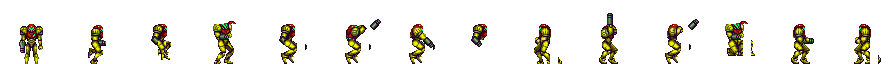
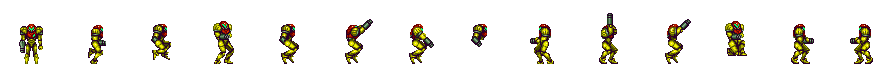
fully fix all samus rendering

diff --git a/shared/src/commonMain/kotlin/com/supermetroid/editor/rom/SamusSpriteDecoder.kt b/shared/src/commonMain/kotlin/com/supermetroid/editor/rom/SamusSpriteDecoder.kt
@@ -84,22 +84,45 @@ class SamusSpriteDecoder(private val romParser: RomParser) {
     val animationCount: Int get() = 253
 
     /**
+     * Sorted unique frame-progression pointers, used to determine animation
+     * boundaries (many animations share overlapping data with no terminators).
+     */
+    private val sortedFramePointers: IntArray by lazy {
+        val ptrs = mutableSetOf<Int>()
+        for (id in 0 until animationCount) {
+            val off = romParser.snesToPc(FRAME_PROG_PTRS + 2 * id)
+            ptrs.add(readU16(rom, off))
+        }
+        ptrs.sorted().toIntArray()
+    }
+
+    /**
      * Get the number of frames (poses) for an animation.
-     * Scans until end marker (0xFF in top_tiles_table byte) or next animation boundary.
+     * Uses the gap to the next animation's pointer to determine the boundary,
+     * since SM's frame tables share overlapping data with no terminators.
      */
     fun getFrameCount(animationId: Int): Int {
         if (animationId < 0 || animationId >= animationCount) return 0
         val fpPtrOff = romParser.snesToPc(FRAME_PROG_PTRS + 2 * animationId)
-        val fpBase = readU16(rom, fpPtrOff)
-        val tableAddr = romParser.snesToPc(0x920000 + fpBase)
+        val currentPtr = readU16(rom, fpPtrOff)
 
+        // Binary search for current pointer, use next pointer to compute frame count
+        val idx = sortedFramePointers.binarySearch(currentPtr)
+        if (idx >= 0 && idx + 1 < sortedFramePointers.size) {
+            val nextPtr = sortedFramePointers[idx + 1]
+            val frames = (nextPtr - currentPtr) / 4
+            if (frames in 1..64) return frames
+        }
+
+        // Fallback: scan for control bytes (>= 0xE0) or end-of-data
+        val tableAddr = romParser.snesToPc(0x920000 + currentPtr)
         var count = 0
-        while (count < 64) { // safety limit
+        while (count < 64) {
             val entry0 = rom[tableAddr + count * 4].toInt() and 0xFF
-            if (entry0 == 0xFF) break
+            if (entry0 >= 0xE0) break
             count++
         }
-        return count
+        return count.coerceAtLeast(1)
     }
 
     // ─── Pose extraction ─────────────────────────────────────────────
@@ -192,25 +215,25 @@ class SamusSpriteDecoder(private val romParser: RomParser) {
         val pixels = IntArray(width * height) // transparent black
 
         for (entry in pose.tilemaps) {
+            val bx = centerX + entry.xOffset
+            val by = centerY + entry.yOffset
             if (entry.is16x16) {
-                // 16x16 = 4 tiles: tileNum, tileNum+1, tileNum+16, tileNum+17
+                // 16x16 = 4 sub-tiles; swap positions when flipped
+                val lx = if (entry.xFlip) 8 else 0
+                val rx = if (entry.xFlip) 0 else 8
+                val ty = if (entry.yFlip) 8 else 0
+                val boty = if (entry.yFlip) 0 else 8
                 renderTile(pixels, width, height, pose.vram, entry.tileNum, palette,
-                    centerX + entry.xOffset, centerY + entry.yOffset,
-                    entry.xFlip, entry.yFlip, 0, 0)
+                    bx + lx, by + ty, entry.xFlip, entry.yFlip)
                 renderTile(pixels, width, height, pose.vram, entry.tileNum + 1, palette,
-                    centerX + entry.xOffset, centerY + entry.yOffset,
-                    entry.xFlip, entry.yFlip, 8, 0)
+                    bx + rx, by + ty, entry.xFlip, entry.yFlip)
                 renderTile(pixels, width, height, pose.vram, entry.tileNum + 16, palette,
-                    centerX + entry.xOffset, centerY + entry.yOffset,
-                    entry.xFlip, entry.yFlip, 0, 8)
+                    bx + lx, by + boty, entry.xFlip, entry.yFlip)
                 renderTile(pixels, width, height, pose.vram, entry.tileNum + 17, palette,
-                    centerX + entry.xOffset, centerY + entry.yOffset,
-                    entry.xFlip, entry.yFlip, 8, 8)
+                    bx + rx, by + boty, entry.xFlip, entry.yFlip)
             } else {
-                // 8x8 single tile
                 renderTile(pixels, width, height, pose.vram, entry.tileNum, palette,
-                    centerX + entry.xOffset, centerY + entry.yOffset,
-                    entry.xFlip, entry.yFlip, 0, 0)
+                    bx, by, entry.xFlip, entry.yFlip)
             }
         }
         return pixels
@@ -313,17 +336,17 @@ class SamusSpriteDecoder(private val romParser: RomParser) {
 
     /**
      * Render a single 8x8 tile from VRAM into the pixel buffer.
-     * @param subX, subY offset within the 16x16 tile (0 or 8 for each)
+     * Flip is applied within the 8x8 tile; for 16x16 sprites the caller
+     * swaps sub-tile positions.
      */
     private fun renderTile(
         pixels: IntArray, imgW: Int, imgH: Int,
         vram: ByteArray, tileNum: Int, palette: IntArray,
         baseX: Int, baseY: Int,
-        xFlip: Boolean, yFlip: Boolean,
-        subX: Int, subY: Int
+        xFlip: Boolean, yFlip: Boolean
     ) {
         val tileOffset = tileNum * 32
-        if (tileOffset + 32 > vram.size) return
+        if (tileOffset < 0 || tileOffset + 32 > vram.size) return
 
         for (py in 0 until 8) {
             val row = tileOffset + py * 2
@@ -343,17 +366,8 @@ class SamusSpriteDecoder(private val romParser: RomParser) {
 
                 if (colorIdx == 0) continue // transparent
 
-                // Apply flip
-                val fx = if (xFlip) {
-                    if (subX == 0) 8 + (7 - px) else (7 - px)
-                } else {
-                    subX + px
-                }
-                val fy = if (yFlip) {
-                    if (subY == 0) 8 + (7 - py) else (7 - py)
-                } else {
-                    subY + py
-                }
+                val fx = if (xFlip) 7 - px else px
+                val fy = if (yFlip) 7 - py else py
 
                 val sx = baseX + fx
                 val sy = baseY + fy

diff --git a/shared/src/jvmTest/kotlin/com/supermetroid/editor/rom/SamusRenderDiagnostic.kt b/shared/src/jvmTest/kotlin/com/supermetroid/editor/rom/SamusRenderDiagnostic.kt
@@ -29,10 +29,6 @@ class SamusRenderDiagnostic {
         val img = BufferedImage(size, size, BufferedImage.TYPE_INT_ARGB)
         img.setRGB(0, 0, size, size, pixels, 0, size)
         ImageIO.write(img, "png", File("/Users/kenny/code/super_metroid_dev/test-resources/samus_test_pose.png"))
-        println("Wrote samus_test_pose.png")
-
-        val nonTransparent = pixels.count { it != 0 }
-        println("Non-transparent pixels: $nonTransparent / ${size * size}")
     }
 
     @Test
@@ -60,6 +56,51 @@ class SamusRenderDiagnostic {
         }
 
         ImageIO.write(sheet, "png", File("/Users/kenny/code/super_metroid_dev/test-resources/samus_poses_sheet.png"))
-        println("Wrote samus_poses_sheet.png with ${groups.size} groups")
+    }
+
+    @Test
+    fun `render standing variants to verify flip correctness`() {
+        val rp = loadTestRom() ?: return
+        val decoder = SamusSpriteDecoder(rp)
+        val palette = decoder.readPalette()
+
+        // Render all 9 standing variants (anim 0-8) frame 0 as a strip
+        val tileSize = 64
+        val standAnims = listOf(0, 1, 2, 3, 4, 5, 6, 7, 8)
+        val sheetW = standAnims.size * tileSize
+        val sheet = BufferedImage(sheetW, tileSize, BufferedImage.TYPE_INT_ARGB)
+
+        for ((idx, animId) in standAnims.withIndex()) {
+            val pose = decoder.getPose(animId, 0) ?: continue
+            val pixels = decoder.renderPose(pose, palette, tileSize, tileSize)
+            sheet.setRGB(idx * tileSize, 0, tileSize, tileSize, pixels, 0, tileSize)
+        }
+
+        ImageIO.write(sheet, "png", File("/Users/kenny/code/super_metroid_dev/test-resources/samus_stand_variants.png"))
+    }
+
+    @Test
+    fun `render run animation frames`() {
+        val rp = loadTestRom() ?: return
+        val decoder = SamusSpriteDecoder(rp)
+        val palette = decoder.readPalette()
+
+        // Render all frames of run animation 9 (first run variant)
+        val animId = 9
+        val frameCount = decoder.getFrameCount(animId)
+        val tileSize = 48
+        val cols = frameCount.coerceAtMost(10)
+        val rows = (frameCount + cols - 1) / cols
+        val sheet = BufferedImage(cols * tileSize, rows * tileSize, BufferedImage.TYPE_INT_ARGB)
+
+        for (frame in 0 until frameCount) {
+            val pose = decoder.getPose(animId, frame) ?: continue
+            val pixels = decoder.renderPose(pose, palette, tileSize, tileSize)
+            val col = frame % cols
+            val row = frame / cols
+            sheet.setRGB(col * tileSize, row * tileSize, tileSize, tileSize, pixels, 0, tileSize)
+        }
+
+        ImageIO.write(sheet, "png", File("/Users/kenny/code/super_metroid_dev/test-resources/samus_run_frames.png"))
     }
 }

diff --git a/shared/src/jvmTest/kotlin/com/supermetroid/editor/rom/SamusFrameCountTest.kt b/shared/src/jvmTest/kotlin/com/supermetroid/editor/rom/SamusFrameCountTest.kt
@@ -1,0 +1,48 @@
+package com.supermetroid.editor.rom
+
+import org.junit.jupiter.api.Test
+import org.junit.jupiter.api.Assertions.assertTrue
+import java.io.File
+
+class SamusFrameCountTest {
+    private fun loadTestRom(): RomParser? {
+        val paths = listOf(
+            "/Users/kenny/code/super_metroid_dev/test-resources/Super Metroid (JU) [!].smc",
+            "test-resources/Super Metroid (JU) [!].smc"
+        )
+        for (p in paths) {
+            val f = File(p)
+            if (f.exists()) return RomParser.loadRom(f.absolutePath)
+        }
+        return null
+    }
+
+    @Test
+    fun `standing animation variants have bounded frame counts`() {
+        val rp = loadTestRom() ?: return
+        val decoder = SamusSpriteDecoder(rp)
+        // Stand group variants 1-8 should have small frame counts (bounded by next pointer)
+        for (animId in 1..8) {
+            val count = decoder.getFrameCount(animId)
+            assertTrue(count in 1..20, "Anim $animId: expected 1-20 frames, got $count")
+        }
+    }
+
+    @Test
+    fun `running animations have 10 frames each`() {
+        val rp = loadTestRom() ?: return
+        val decoder = SamusSpriteDecoder(rp)
+        for (animId in 9..17) {
+            val count = decoder.getFrameCount(animId)
+            assertTrue(count == 10, "Run anim $animId: expected 10 frames, got $count")
+        }
+    }
+
+    @Test
+    fun `spin jump has 3 frames`() {
+        val rp = loadTestRom() ?: return
+        val decoder = SamusSpriteDecoder(rp)
+        assertTrue(decoder.getFrameCount(0x25) == 3, "Spin jump L should have 3 frames")
+        assertTrue(decoder.getFrameCount(0x26) == 3, "Spin jump R should have 3 frames")
+    }
+}

diff --git a/desktopApp/src/jvmMain/kotlin/com/supermetroid/editor/ui/SamusSpriteViewer.kt b/desktopApp/src/jvmMain/kotlin/com/supermetroid/editor/ui/SamusSpriteViewer.kt
@@ -255,12 +255,15 @@ fun SamusSpriteViewer(
                         }
                     }
 
+                    // Height estimate: ~10 columns at 56dp adaptive, 68dp per row
+                    val estimatedCols = 10
+                    val estimatedRows = (thumbnails.size + estimatedCols - 1) / estimatedCols
                     LazyVerticalGrid(
                         columns = GridCells.Adaptive(56.dp),
                         horizontalArrangement = Arrangement.spacedBy(4.dp),
                         verticalArrangement = Arrangement.spacedBy(4.dp),
                         modifier = Modifier.fillMaxWidth().height(
-                            ((thumbnails.size + 14) / 15 * 70).coerceIn(70, 600).dp
+                            (estimatedRows * 68).coerceIn(68, 800).dp
                         )
                     ) {
                         itemsIndexed(thumbnails) { idx, thumb ->

diff --git a/README.md b/README.md
@@ -130,18 +130,28 @@ The `cli` module provides headless export of structured JSON data from a ROM wit
 ./gradlew -q :cli:runCli -Pargs="--rom rom.smc export -o /tmp/sm_export"
 ```
 
+## Editing Approach
+
+SMEDIT uses **binary ROM patching with smart data relocation** — the same fundamental approach as SMILE, but with a cleaner architecture. Edits are stored as non-destructive deltas in a project file (`.smedit` JSON) against an immutable ROM, and applied at export time.
+
+When data grows beyond its original size (e.g., adding more items or enemies to a room than vanilla), the export pipeline automatically relocates the data to free space in the appropriate ROM bank and updates all pointers — including across multiple room states.
+
+This approach supports the vast majority of ROM hacking use cases. The main constraints are finite free space in each ROM bank (solvable via ROM expansion) and the inability to change the engine's data structure formats (which would require a disassembly-based workflow). For context, SMILE used the same binary patching model and powered 15+ years of community hacks.
+
+See [docs/project/plan.md](docs/project/plan.md) for the full roadmap including planned support for new room creation and ROM expansion.
+
 ## Roadmap
 
 See [open issues](https://github.com/kennycason/super_metroid_editor/issues) for planned features and known bugs.
 
 Planned:
 - Room creation, resizing, and state management
+- Door expansion and new door connections
+- ROM expansion beyond 3MB to eliminate free space limits
 - Custom tileset importing and tile swapping
 - FX / scrolling / background layer editing
-- Palette editor
 - Sound Editing / Synth
 - ASM support
-- Free space management and bank expansion
 
 ## Contributing
 

diff --git a/docs/project/plan.md b/docs/project/plan.md
@@ -94,10 +94,16 @@ SMILE has dedicated spawn X/Y/screen configuration per save station.
 4. **Tileset/Metatile Composer** — Enables truly custom tilesets
 5. **Validation Suite** — PLM scanner, door validator, GFX limit warnings
 
+### Longer Term: Expansion
+6. **Door Expansion** — Free space tracking in bank $83 to support adding new door connections
+7. **New Room Creation** — Allocate room headers in $8F, extend room pointer table, allocate all associated data (PLMs, enemies, level data, scrolls)
+8. **ROM Expansion** — Extend ROM beyond 3MB (HiROM) to eliminate free space constraints
+9. **Free Space Map** — Track all allocated/free regions across the ROM, reclaim space from relocated data
+
 ### Polish
-6. **Door Cloning Tool** — Auto-calculate from screen edge click
-7. **Layer 2/BG Editor** — Parallax modes + BG pointer
-8. **Save Station Spawn Editor** — Fine-tune spawn coordinates
+10. **Door Cloning Tool** — Auto-calculate from screen edge click
+11. **Layer 2/BG Editor** — Parallax modes + BG pointer
+12. **Save Station Spawn Editor** — Fine-tune spawn coordinates
 
 ---
 
